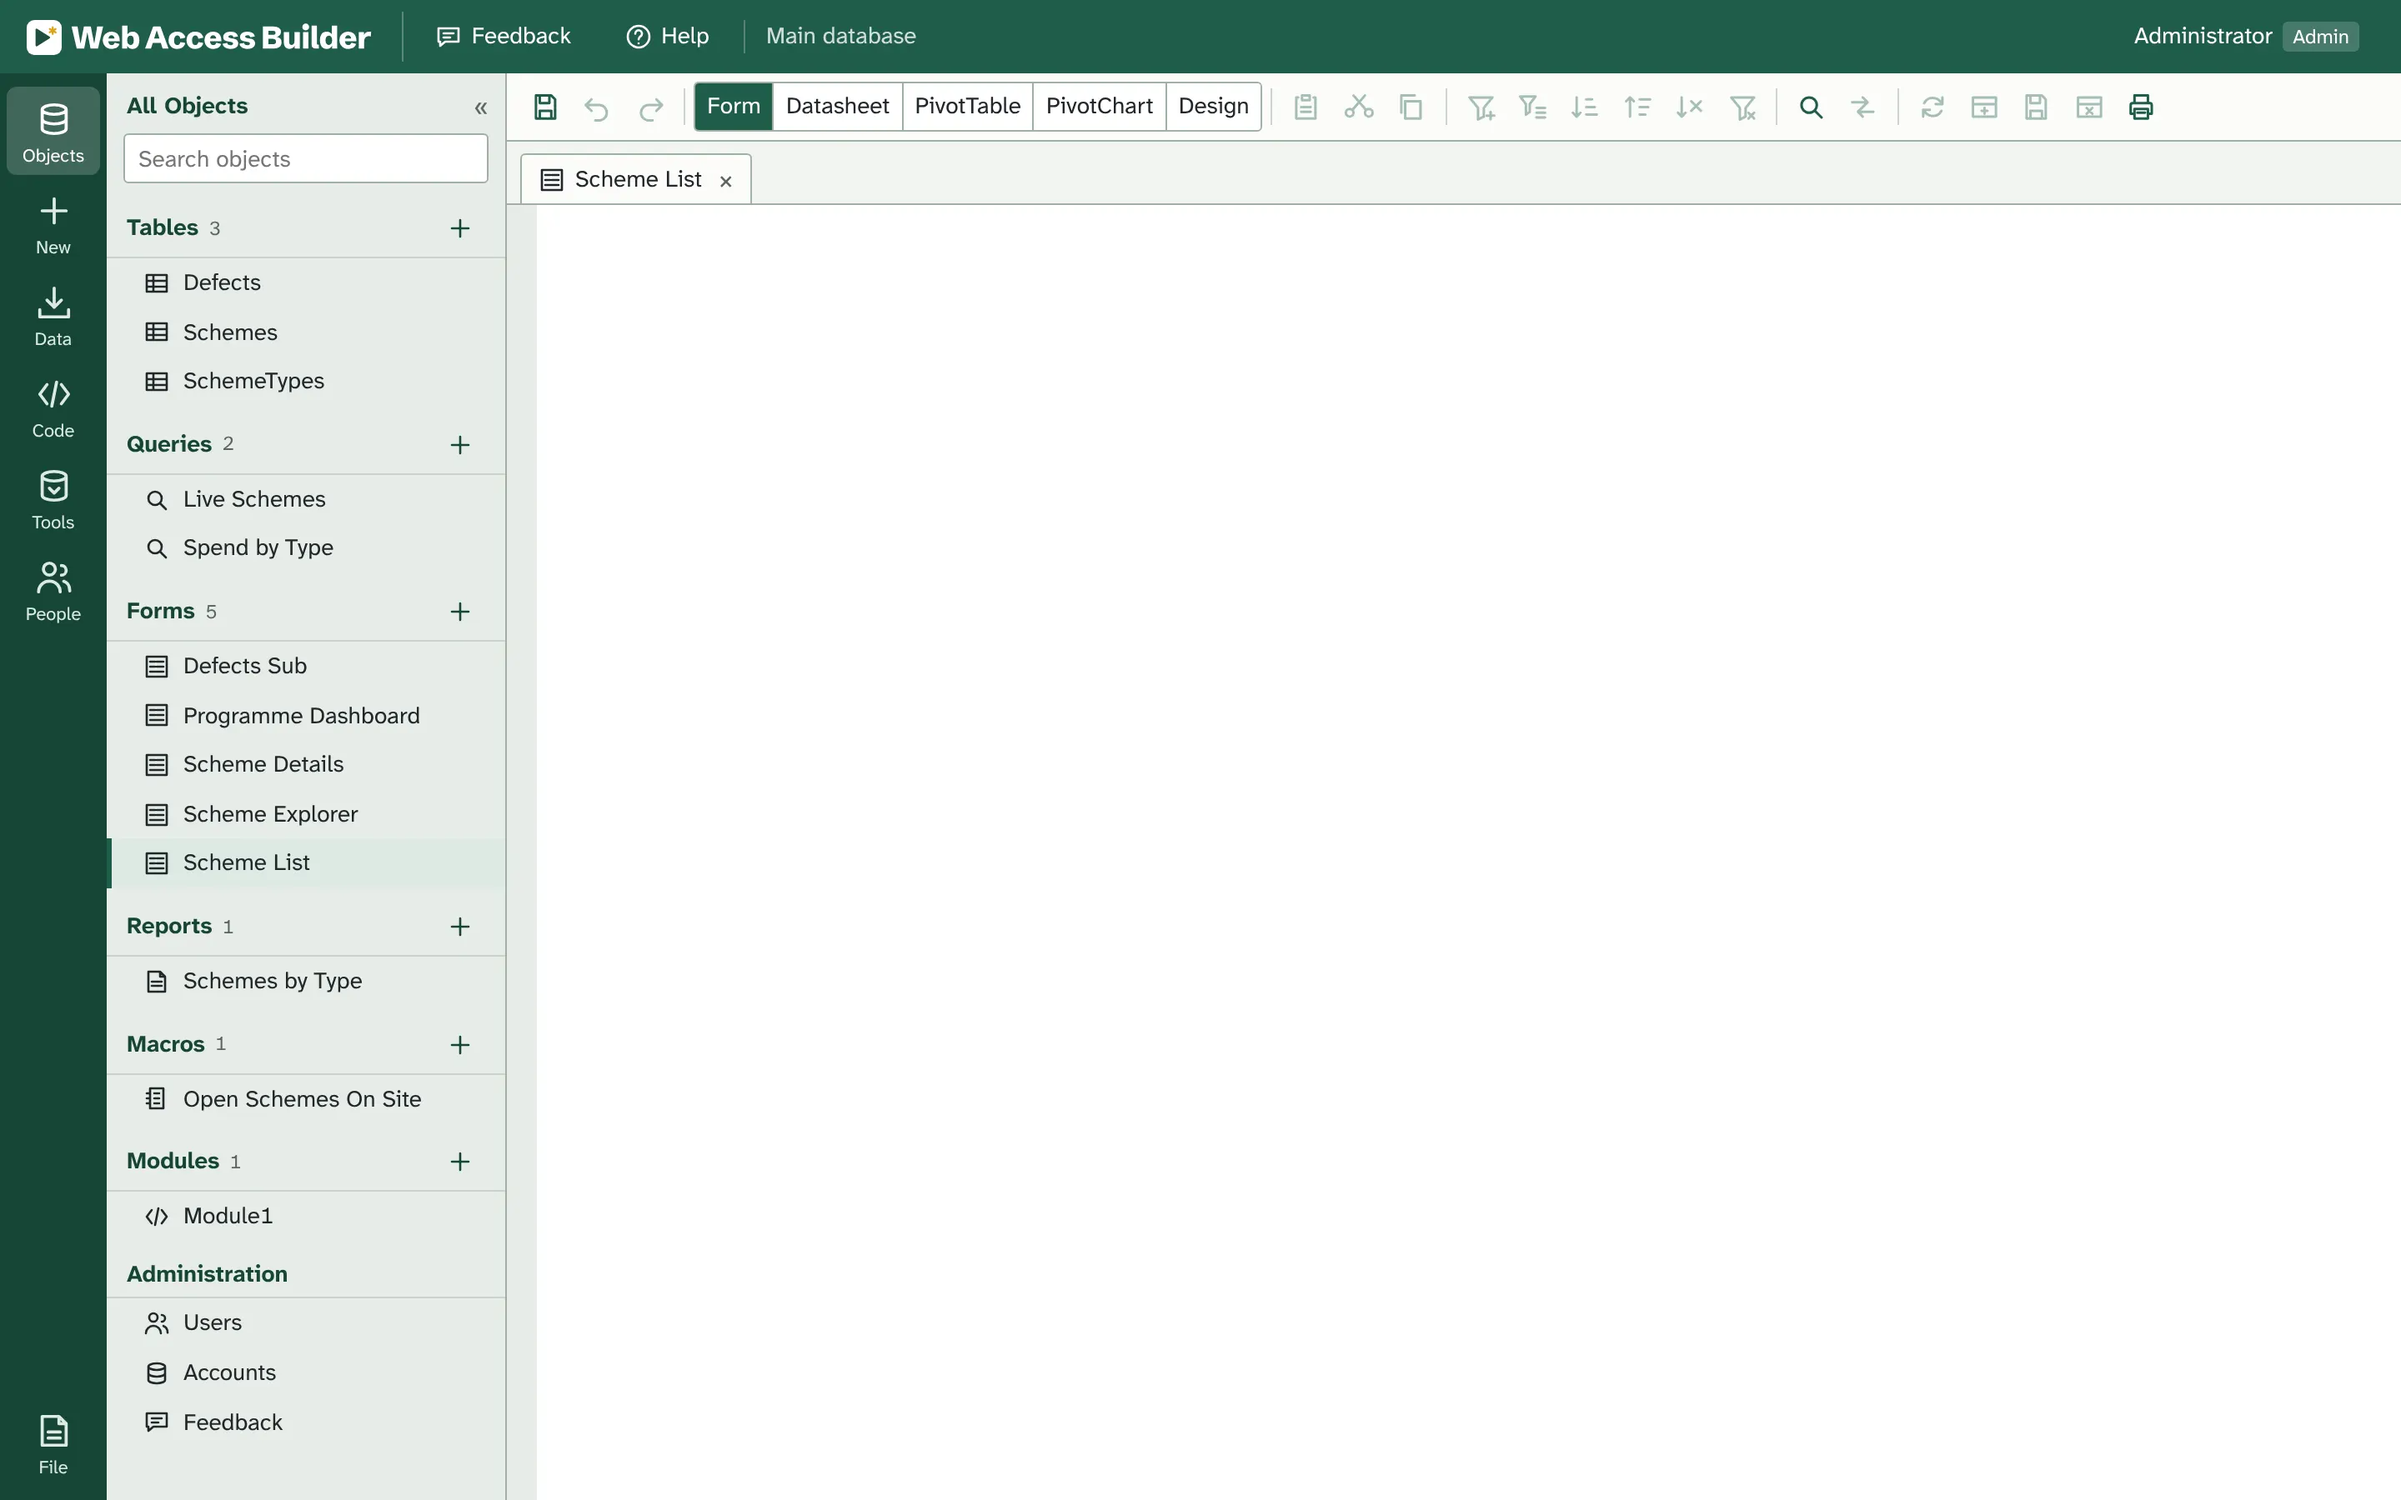
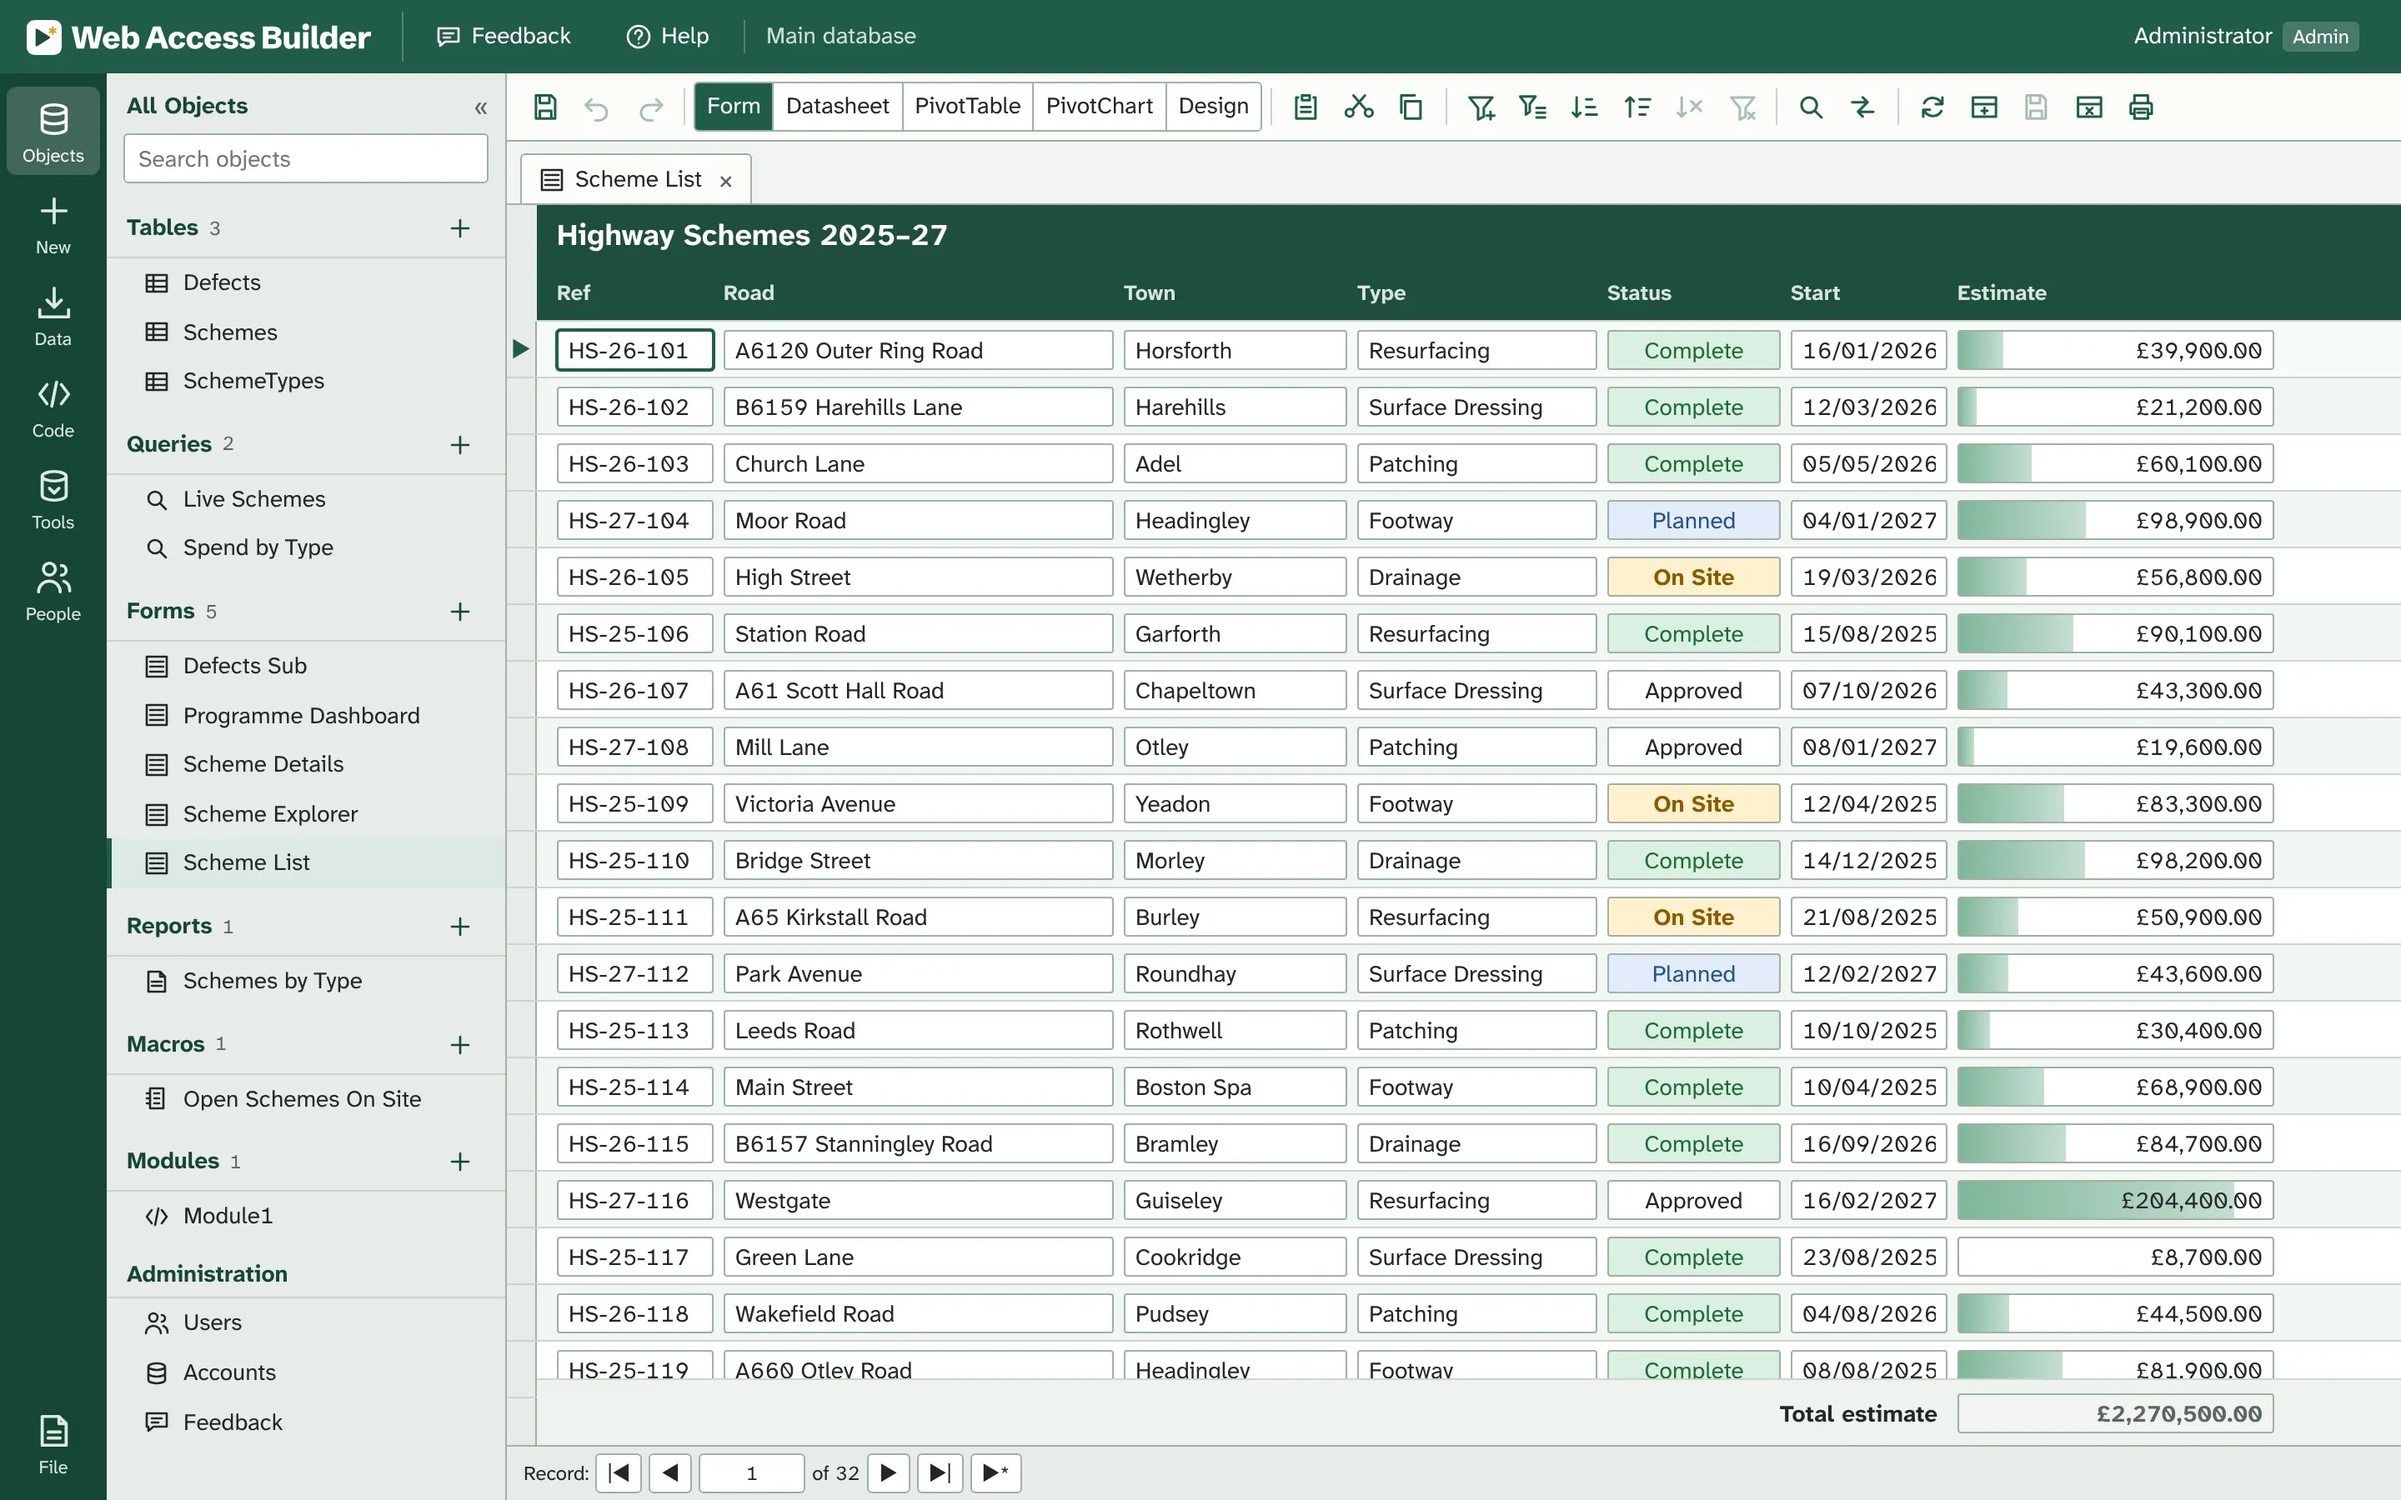
New headline: Spreadsheet and database, together at last
Sub-line 'Design it, then share it with your team as your own app'. The free
runtime stays in the paragraph and the note under the buttons. Also retakes
the continuous form screenshot (it had been photographed before it drew),
captures six screens at a time so that doesn't recur, and makes the share
image from the spreadsheet shot.

Claude-Session: https://claude.ai/code/session_01SXnACFwJBHYCA6EeHeGctB

diff --git a/public/index.html b/public/index.html
@@ -3,9 +3,9 @@
 <head>
 <meta charset="utf-8">
 <meta name="viewport" content="width=device-width, initial-scale=1">
-<title>Web Access Builder: your spreadsheet, with a database behind it</title>
+<title>Web Access Builder: spreadsheet and database, together at last</title>
 <meta name="description" content="Worksheets, forms, reports and pivot charts on one shared database, in a web browser. Keep your formulas; every change is saved for everyone at once. Build with no code, macros or VBA, then share it: up to 10 people use each database free.">
-<meta property="og:title" content="Web Access Builder: your spreadsheet, with a database behind it">
+<meta property="og:title" content="Web Access Builder: spreadsheet and database, together at last">
 <meta property="og:description" content="Worksheets, forms, reports and pivot charts on one shared database, in a browser. No code, macros or VBA. Share each database free with up to 10 people.">
 <meta property="og:image" content="https://webaccessbuilder.com/img/og.png">
 <meta property="og:url" content="https://webaccessbuilder.com/">
@@ -55,8 +55,9 @@
 <!-- ============ Hero ============ -->
 <section class="hero" id="screens" aria-labelledby="hero-title">
   <div class="wrap">
-    <h1 id="hero-title">Your spreadsheet, with a database behind it.<br>Hand it out free.</h1>
-    <p class="lede">Worksheets, forms, reports and pivot charts on one shared database, in a web browser. Keep your formulas and your layout; the records underneath are saved the moment a cell changes, for everyone at once. Build with no code, with macros, or in VBA. Then hand it out: up to 10 people use each database free.</p>
+    <h1 id="hero-title">Spreadsheet and database, together at last.</h1>
+    <p class="hero-sub">Design it, then share it with your team as your own app.</p>
+    <p class="lede">Worksheets, forms, reports and pivot charts on one shared database, in a web browser. Keep your formulas and your layout; the records underneath are saved the moment a cell changes, for everyone at once. Build with no code, with macros, or in VBA. Up to 10 people use each database free.</p>
     <p class="hero-actions">
       <a class="btn btn-primary" href="#demo" data-demo-link>Try the demo</a>
       <a class="btn btn-ghost" href="#request">Request a test instance</a>

diff --git a/public/css/site.css b/public/css/site.css
@@ -686,7 +686,8 @@ html:has(.guide) { scroll-behavior: auto; }
 }
 
 /* ---------- the Excel-led home page and the two "coming from" pages ---------- */
-.hero h1 { max-width: 20ch; }
+.hero h1 { max-width: 18ch; }
+.hero-sub { margin: 18px 0 0; max-width: 30ch; font-weight: 750; font-size: clamp(1.5rem, 3vw, 2.25rem); line-height: 1.2; letter-spacing: -0.02em; color: var(--green); }
 .pagehead { padding: 88px 0 72px; }
 .pagehead h1 { max-width: 18ch; }
 .pagehead .lede { margin-top: 24px; max-width: 62ch; font-size: 1.3rem; color: #2a3a32; }

diff --git a/docs/brand.md b/docs/brand.md
@@ -91,7 +91,7 @@ Simon is reducing references to Access, in the app and on the site, to avoid leg
 
 Simon's view: Access developers are a small market, so the Spreadsheet control was added to bring in people who run things on shared Excel workbooks. The site leads on that, with Access as a second way in.
 
-- Home page headline: "Your spreadsheet, with a database behind it. Hand it out free." It opens on the problem (a shared workbook that has become the system), then the Spreadsheet control, then the runtime.
+- Home page headline: "Spreadsheet and database, together at last.", with "Design it, then share it with your team as your own app." under it (Simon, 11 Nov: the best of both worlds; "hand it out free" sounded lightweight for a headline, so the free runtime is in the paragraph and the note under the buttons instead). It opens on the problem (a shared workbook that has become the system), then the Spreadsheet control, then the runtime.
 - Two pages for where people come from: `/excel/` (what carries over, what's different, how to start) and `/access/` (what they'll recognise, what changes on the web, bringing a database across). The Access comparison lives on `/access/`, not the home page.
 - A third, supporting message: everything in one place (database, forms, reports, code, sign-in, hosting), with no full-stack skills needed.
 - Three ways to build, in this order: no code, macros, VBA.
